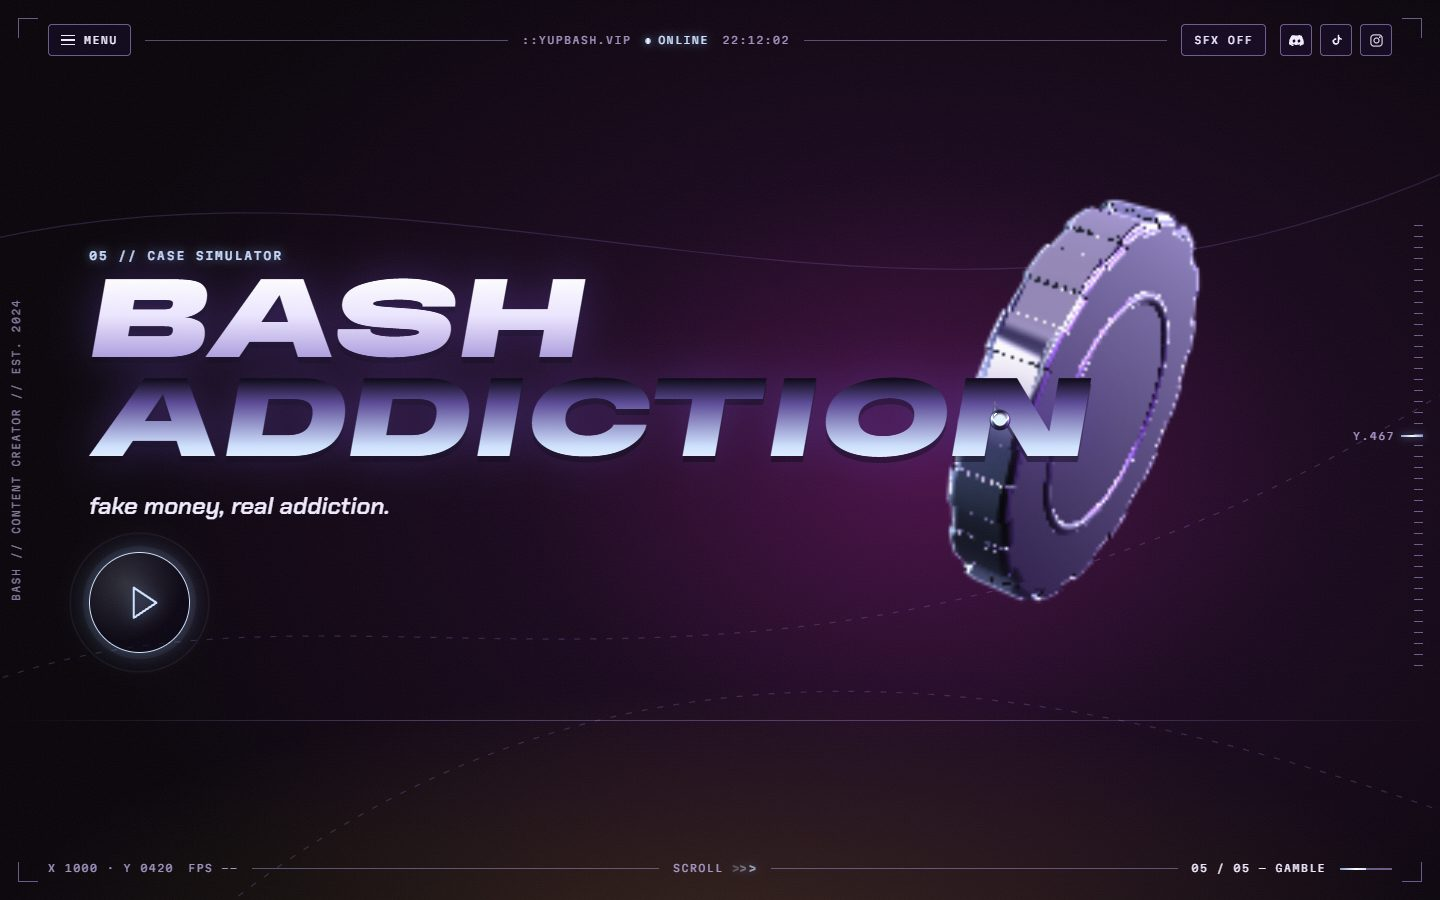
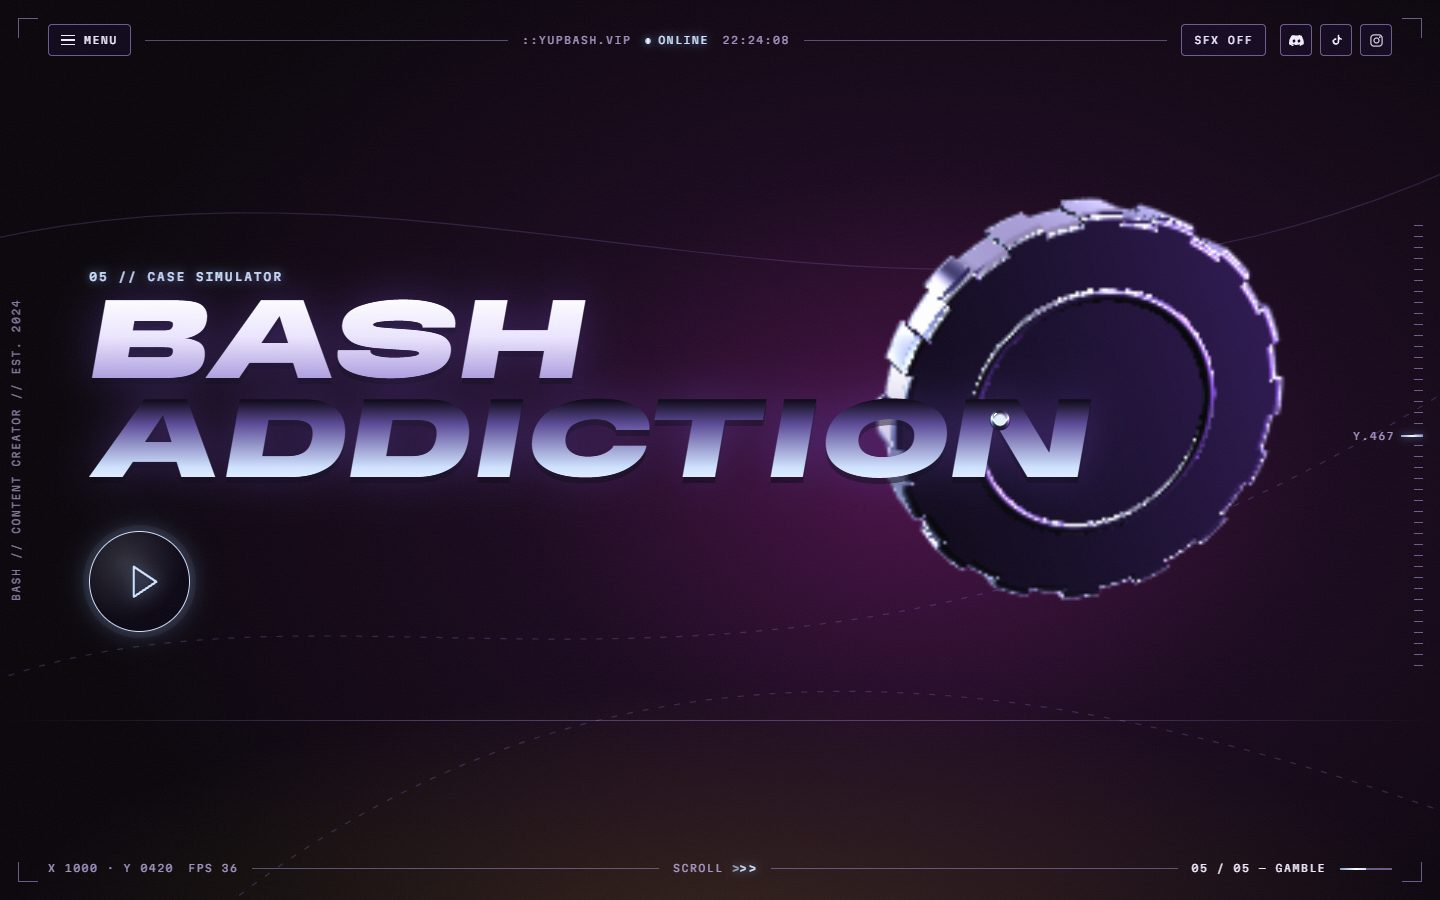
Gate shows just PLAY; drop the gamble tagline

Changed region(s): [[0.0625, 0.2178, 0.9062, 0.7467], [0.8125, 0.5911, 0.8438, 0.6222]]

diff --git a/assets/css/base.css b/assets/css/base.css
@@ -199,19 +199,13 @@ html.menu-open .menu-list li:nth-child(5){animation-delay:.2s}
 .gate-c.d{right:18px;bottom:18px;border-bottom-width:1.5px;border-right-width:1.5px;transform-origin:100% 100%}
 .gate.booting .gate-c{transform:scale(1.6)}
 .gate-inner{display:flex;flex-direction:column;align-items:center;gap:34px;text-align:center}
-/* ":: ▷START" — wordmark-style button: chrome dots, an outlined play triangle that breathes, START in chrome type. */
-.gate-start{display:inline-flex;align-items:center;gap:.14em;padding:.12em .2em;border:0;background:none;color:var(--nc-ink);cursor:pointer;
-  font-family:var(--nc-font-display);font-style:italic;font-stretch:150%;font-weight:900;font-size:clamp(46px,7.4vw,104px);line-height:.9;letter-spacing:-.02em;
-  filter:drop-shadow(0 0 24px rgba(139,92,246,.35)) drop-shadow(0 5px 0 rgba(0,0,0,.55))}
-.gate-colons{flex:none;width:.2em;height:.27em;margin-right:.06em;fill:url(#g-ice);transform:skewX(-14deg);filter:drop-shadow(0 0 8px var(--nc-accent-glow))}
-.gate-play{flex:none;width:.52em;height:.6em;overflow:visible;transform:skewX(-8deg);transition:transform .35s var(--nc-ease)}
-.gate-play path{fill:transparent;stroke:var(--nc-accent);stroke-width:2.2;stroke-linejoin:round;vector-effect:non-scaling-stroke;
-  filter:drop-shadow(0 0 6px var(--nc-accent-glow));transition:fill .3s;animation:ncBreathe 2.4s ease-in-out infinite}
-@keyframes ncBreathe{50%{opacity:.35}}
+/* "PLAY" — just the word, in the wordmark's chrome type, glowing softly (first visit only). */
+.gate-start{padding:.12em .2em;border:0;background:none;color:var(--nc-ink);cursor:pointer;
+  font-family:var(--nc-font-display);font-style:italic;font-stretch:150%;font-weight:900;font-size:clamp(52px,8.4vw,120px);line-height:.9;letter-spacing:-.02em;
+  filter:drop-shadow(0 0 22px rgba(139,92,246,.35)) drop-shadow(0 5px 0 rgba(0,0,0,.55));animation:ncGlow 2.6s ease-in-out infinite;transition:transform .3s var(--nc-ease)}
+@keyframes ncGlow{50%{filter:drop-shadow(0 0 34px rgba(140,185,255,.55)) drop-shadow(0 5px 0 rgba(0,0,0,.55))}}
 .gate-start-word{display:block;padding-right:.06em}
-.gate-start:hover .gate-play,.gate-start:focus-visible .gate-play{transform:skewX(-8deg) translateX(.08em)}
-.gate-start:hover .gate-play path{fill:var(--nc-accent);animation:none}
-.gate-start:focus-visible .gate-play path{animation:none}
+.gate-start:hover{transform:scale(1.04)}
 .gate-start:focus-visible{outline:none}
 .gate-silent{padding:6px 10px;border:0;background:none;color:var(--nc-hud);cursor:pointer;
   font:500 10.5px/1 var(--nc-font-mono);letter-spacing:.18em;text-transform:uppercase;text-decoration:underline;text-underline-offset:4px}
@@ -222,5 +216,6 @@ html.menu-open .menu-list li:nth-child(5){animation-delay:.2s}
 .gate.dropping{background:rgba(6,4,11,.35)}
 .gate.leaving{opacity:0}
 @media (prefers-reduced-motion:reduce){
+  .gate-start{animation:none}
   *,*::before,*::after{animation-duration:.001ms!important;animation-iteration-count:1!important;transition-duration:.001ms!important;scroll-behavior:auto!important}
 }

diff --git a/index.html b/index.html
@@ -119,7 +119,7 @@
   <span class="gate-c a" aria-hidden="true"></span><span class="gate-c b" aria-hidden="true"></span>
   <span class="gate-c c" aria-hidden="true"></span><span class="gate-c d" aria-hidden="true"></span>
   <div class="gate-inner">
-    <button id="enterBtn" class="gate-start" type="button" data-label="START"><svg class="gate-colons" viewBox="0 0 20 27" aria-hidden="true" focusable="false"><circle cx="4" cy="5" r="3.6"/><circle cx="15" cy="5" r="3.6"/><circle cx="4" cy="20" r="3.6"/><circle cx="15" cy="20" r="3.6"/></svg><svg class="gate-play" viewBox="0 0 26 30" aria-hidden="true" focusable="false"><path d="M3 3 L23 15 L3 27 Z"/></svg><span class="gate-start-word chrome-text">START</span></button>
+    <button id="enterBtn" class="gate-start" type="button" data-label="PLAY"><span class="gate-start-word chrome-text">PLAY</span></button>
     <button id="enterSilent" class="gate-silent" type="button">enter silently</button>
     <pre id="bootLines" class="gate-boot" aria-live="polite"></pre>
   </div>
@@ -260,7 +260,6 @@
   <section id="gamble" class="sec sec-gamble" aria-labelledby="gambleTitle">
     <p class="kicker">05 // case simulator</p>
     <h2 id="gambleTitle" class="gamble-title chrome-text">BASH ADDICTION</h2>
-    <p class="gamble-sub">fake money, real addiction.</p>
     <a class="play-btn" href="/cases/" data-magnet data-label="PLAY" aria-label="Open a case"><svg class="play-tri" viewBox="0 0 26 30" aria-hidden="true" focusable="false"><path d="M5 3 L23 15 L5 27 Z"/></svg></a>
   </section>
 </main>

diff --git a/assets/css/home.css b/assets/css/home.css
@@ -187,7 +187,7 @@ html.vids-3d .vid-card.is-front{filter:none}
 .gamble-title{margin:0;font-family:var(--nc-font-display);font-style:italic;font-stretch:150%;font-weight:900;
   font-size:clamp(2.6rem,8vw,7.4rem);line-height:.86;letter-spacing:-.02em;
   filter:drop-shadow(0 0 22px rgba(139,92,246,.35)) drop-shadow(0 6px 0 rgba(0,0,0,.55))}
-.gamble-sub{margin:14px 0 28px;font-style:italic;font-weight:600;font-size:clamp(17px,1.65vw,26px)}
+.sec-gamble .play-btn{margin-top:clamp(26px,4vh,40px)}
 /* Play button to the case simulator: a thin silver-blue ring, an outlined triangle that fills on hover, a slow pulse. */
 .play-btn{position:relative;display:inline-grid;place-items:center;width:clamp(78px,7vw,104px);aspect-ratio:1;border-radius:50%;
   border:1.5px solid var(--nc-accent);background:radial-gradient(circle at 35% 30%,rgba(207,226,255,.18),rgba(10,6,22,.6) 62%);

diff --git a/tests/test_gate_audio.py b/tests/test_gate_audio.py
@@ -25,9 +25,9 @@ class GateTest(SiteTestCase):
 
     def test_start_button_is_minimal(self):
         page = self.open("/", entered=False)
-        self.assertEqual(" ".join(page.text_content("#enterBtn").split()), "START")
-        self.assertEqual(page.locator("#enterBtn svg.gate-play").count(), 1)
-        self.assertEqual(page.locator("#enterBtn svg.gate-colons").count(), 1)
+        # Just the word PLAY (YupBash, after release): no dots, no triangle.
+        self.assertEqual(" ".join(page.text_content("#enterBtn").split()), "PLAY")
+        self.assertEqual(page.locator("#enterBtn svg").count(), 0)
         self.assertFalse(page.evaluate("document.getElementById('enterBtn').classList.contains('gel')"))
         self.assertEqual(page.locator("#gate .gate-tab").count(), 0)
         self.assertNotIn("welcome..", page.text_content("#gate"))

diff --git a/tests/test_quality.py b/tests/test_quality.py
@@ -63,7 +63,7 @@ class SiteQualityTest(SiteTestCase):
 
     def test_text_contrast(self):
         page = self.open("/")
-        for sel in ("body", "#hudSection", ".faq-answer", ".vid-cta", ".contact-label", ".gamble-sub"):
+        for sel in ("body", "#hudSection", ".faq-answer", ".vid-cta", ".contact-label", "#gamble .kicker"):
             page.wait_for_selector(sel, state="attached", timeout=10000)
             rgb = page.evaluate("s => getComputedStyle(document.querySelector(s)).color.match(/\d+(\.\d+)?/g).slice(0, 3).map(Number)", sel)
             self.assertGreaterEqual(contrast(rgb, (43, 20, 82)), 4.5, "%s %s" % (sel, rgb))

diff --git a/tests/test_socials_gamble.py b/tests/test_socials_gamble.py
@@ -70,7 +70,7 @@ class GambleOutroTest(SiteTestCase):
     def test_gamble_teaser(self):
         page = self.open("/")
         self.assertEqual(page.text_content("#gambleTitle").strip(), "BASH ADDICTION")
-        self.assertEqual(page.text_content("#gamble .gamble-sub").strip(), "fake money, real addiction.")
+        self.assertEqual(page.locator("#gamble .gamble-sub").count(), 0)
         # Just a play button (YupBash): no gel pill, the name stays for screen readers.
         self.assertEqual(page.locator("#gamble .gel").count(), 0)
         link = page.locator("#gamble a.play-btn")

diff --git a/tests/test_foundation.py b/tests/test_foundation.py
@@ -32,7 +32,7 @@ class FoundationTest(SiteTestCase):
         self.assertEqual(text("#outro .signature"), "BASH · 2024–2026")
         gamble = text("#gamble")
         self.assertIn("BASH ADDICTION", gamble)
-        self.assertIn("fake money, real addiction.", gamble)
+        self.assertNotIn("fake money, real addiction.", gamble)   # removed at YupBash's request
         self.assertEqual(page.get_attribute('#gamble a[href="/cases/"]', "aria-label"), "Open a case")
 
     def test_csp_meta_unchanged(self):

diff --git a/README.md b/README.md
@@ -32,11 +32,11 @@ Une ambiance **Y2K futuriste** : du noir, du violet profond, une touche de **sil
 
 <table>
 <tr>
-<td width="50%"><img src="docs/readme/start.jpg" alt="Écran START"></td>
+<td width="50%"><img src="docs/readme/start.jpg" alt="Écran PLAY"></td>
 <td width="50%"><img src="docs/readme/home.jpg" alt="Accueil"></td>
 </tr>
 <tr>
-<td><b>:: ▷START</b> — à la première visite, une intro de 2 s avec un son <i>entièrement synthétisé</i> (ou en silence).</td>
+<td><b>PLAY</b> — à la première visite, une intro de 2 s avec un son <i>entièrement synthétisé</i> (ou en silence).</td>
 <td><b>01 · Home</b> — <code>::BASH</code> en lettres chromées, le perso, et une sculpture de chrome liquide qui suit la souris.</td>
 </tr>
 <tr>
@@ -53,7 +53,7 @@ Une ambiance **Y2K futuriste** : du noir, du violet profond, une touche de **sil
 </tr>
 <tr>
 <td><b>04 · Socials & contact</b> — trois bulles de chrome, une par réseau, reflet aux couleurs de la marque au survol, e-mail copiable.</td>
-<td><b>05 · Click to gamble</b> — le chrome se transforme en jeton de casino. <i>Fake money, real addiction.</i></td>
+<td><b>05 · Click to gamble</b> — le chrome se transforme en jeton de casino, et un bouton play mène au simulateur.</td>
 </tr>
 </table>
 
@@ -109,16 +109,16 @@ Tout est sauvegardé **dans ton navigateur uniquement** : aucune vraie monnaie, 
 
 ```
 /
-├── index.html              Accueil : toutes les sections (écran START, Home, Videos, About, Socials, Gamble, fin)
+├── index.html              Accueil : toutes les sections (écran PLAY, Home, Videos, About, Socials, Gamble, fin)
 ├── 404.html                Page d'erreur (« 404 » en chrome)
 ├── socials/, faq/          Anciennes pages → redirigent vers /#socials et /#about
 ├── cases/                  BASH ADDICTION, le simulateur de caisses (index.html + données JSON)
 ├── assets/
 │   ├── css/tokens.css      Couleurs, polices, easing (variables --nc-*)
-│   ├── css/base.css        Socle commun : HUD, menu, boutons, écran START, curseur, fond
+│   ├── css/base.css        Socle commun : HUD, menu, boutons, écran PLAY, curseur, fond
 │   ├── css/home.css        Les sections de l'accueil
 │   ├── css/cases.css       Le thème Nocturne Chrome du simulateur
-│   ├── js/site.js          BashSite : stockage sûr, HUD en direct, menu, écran START + intro
+│   ├── js/site.js          BashSite : stockage sûr, HUD en direct, menu, écran PLAY + intro
 │   ├── js/chrome.js        BashChrome : la sculpture WebGL et ses états par section
 │   ├── js/mercure.js       BashMercure : le curseur goutte de chrome + crochets de verrouillage
 │   ├── js/home.js          BashHome : parcours au scroll, carrousel vidéo, fiche, contact, inclinaison
@@ -152,7 +152,7 @@ La sculpture change de forme à chaque section, avec un fondu continu au fil du 
 ```bash
 python -m http.server 8000      # puis http://localhost:8000
 ```
-Pour revoir l'écran START, utilise une fenêtre de navigation privée : il ne s'affiche qu'à la première visite.
+Pour revoir l'écran PLAY, utilise une fenêtre de navigation privée : il ne s'affiche qu'à la première visite.
 
 **Ajouter une vidéo TikTok** (elle remplace une carte « NO SIGNAL ») :
 ```bash
@@ -174,7 +174,7 @@ python -m unittest discover -s tests -v
 
 | Clé | Rôle |
 |---|---|
-| `bash_v3_entered` | `"1"` après l'écran START (il ne revient plus) |
+| `bash_v3_entered` | `"1"` après l'écran PLAY (il ne revient plus) |
 | `bash_v3_sfx` | `"on"` / `"off"` : sons activés |
 | `bash_v3_tilt` | `"granted"` / `"denied"` : autorisation du gyroscope (iPhone) |
 | `cs2sim_*` | sauvegarde du simulateur (solde, inventaire, stats, succès…) |

diff --git a/docs/superpowers/specs/2026-11-09-y2k-nocturne-chrome-design.md b/docs/superpowers/specs/2026-11-09-y2k-nocturne-chrome-design.md
@@ -97,7 +97,7 @@ Le rendu validé (hero, shader, curseur Mercure) existe en prototype local, non 
 Le HUD reste fixe pendant tout le scroll : menu, indicateur `0X / 05 — NOM` + barre de progression, bouton `SFX ON/OFF`, réseaux.
 
 ### 0 · Écran ENTER + intro (1re visite uniquement)
-- Écran noir, coins du HUD, bouton épuré **« :: ▷START »** (points chromés, triangle en contour qui respire et se remplit au survol, START en lettres chromées, d'après le croquis de YupBash au checkpoint de la phase 3), lien discret *enter silently*.
+- Écran noir, coins du HUD, bouton **« PLAY »** : juste le mot, en lettres chromées qui luisent doucement (demande de YupBash après la mise en ligne, qui remplace « :: ▷START »), lien discret *enter silently*.
 - **ENTER** : débloque l'audio, active les SFX, puis lance l'intro (≈ 2 s) **avec son** : lignes « système » qui s'écrivent avec un tic chacune (ton humoristique, ex. `vibes: questionable ✓`), note montante quand les coins se tracent, « bloop » liquide quand la goutte de chrome tombe, basse sourde quand la page s'ouvre.
 - **enter silently** : même intro, sans son ; SFX coupés.
 - Sur iPhone, ce même tap demande l'autorisation d'inclinaison.
@@ -131,7 +131,7 @@ Le HUD reste fixe pendant tout le scroll : menu, indicateur `0X / 05 — NOM` + 
 
 ### 05 · CLICK TO GAMBLE
 - Chrome : les gouttes fusionnent en un **jeton de casino** (disque à bord cranté) qui tourne lentement.
-- Texte : « BASH ADDICTION — fake money, real addiction. » + un simple **bouton play** (cercle fin silver bleu, triangle en contour qui se remplit au survol, anneau qui pulse ; nom accessible « Open a case ») → `/cases/` — demandé par YupBash après la mise en ligne, qui a aussi fait retirer le lien « Case simulator » du menu.
+- Texte : « BASH ADDICTION » (la phrase « fake money, real addiction. » a été retirée à la demande de YupBash) + un simple **bouton play** (cercle fin silver bleu, triangle en contour qui se remplit au survol, anneau qui pulse ; nom accessible « Open a case ») → `/cases/` — demandé par YupBash après la mise en ligne, qui a aussi fait retirer le lien « Case simulator » du menu.
 
 ### Fin
 - « Don't miss the next one. » + les 3 réseaux + signature **« BASH · 2024–2026 »** en Permanent Marker.
